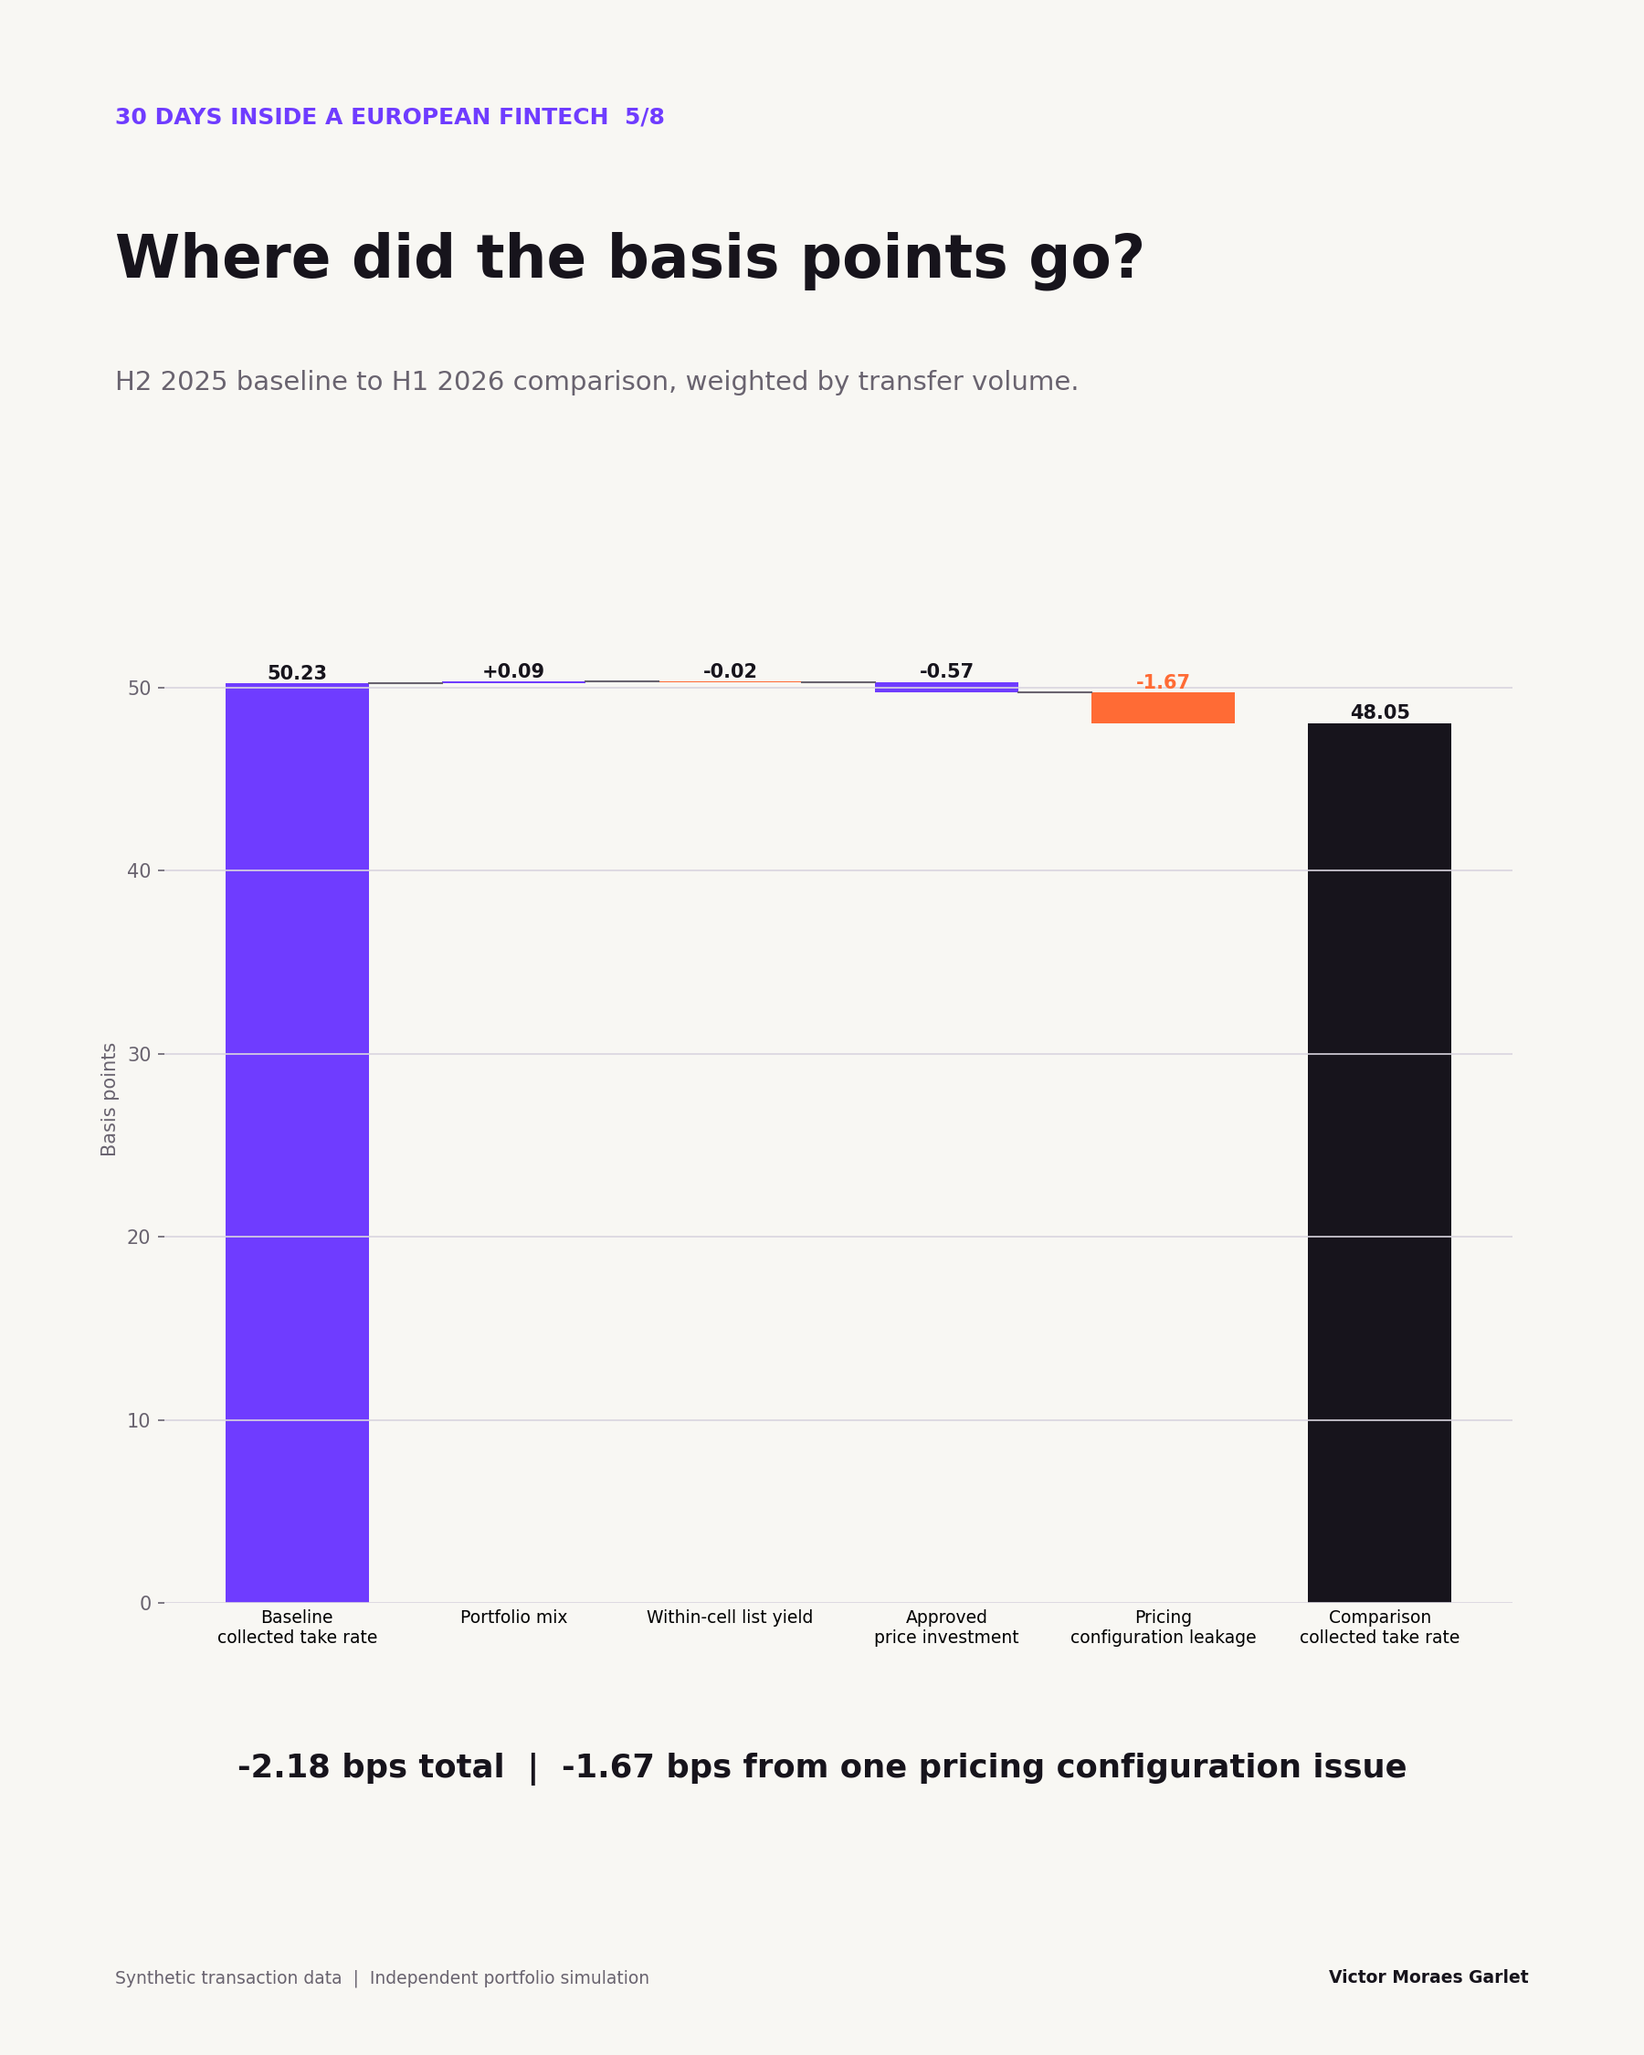
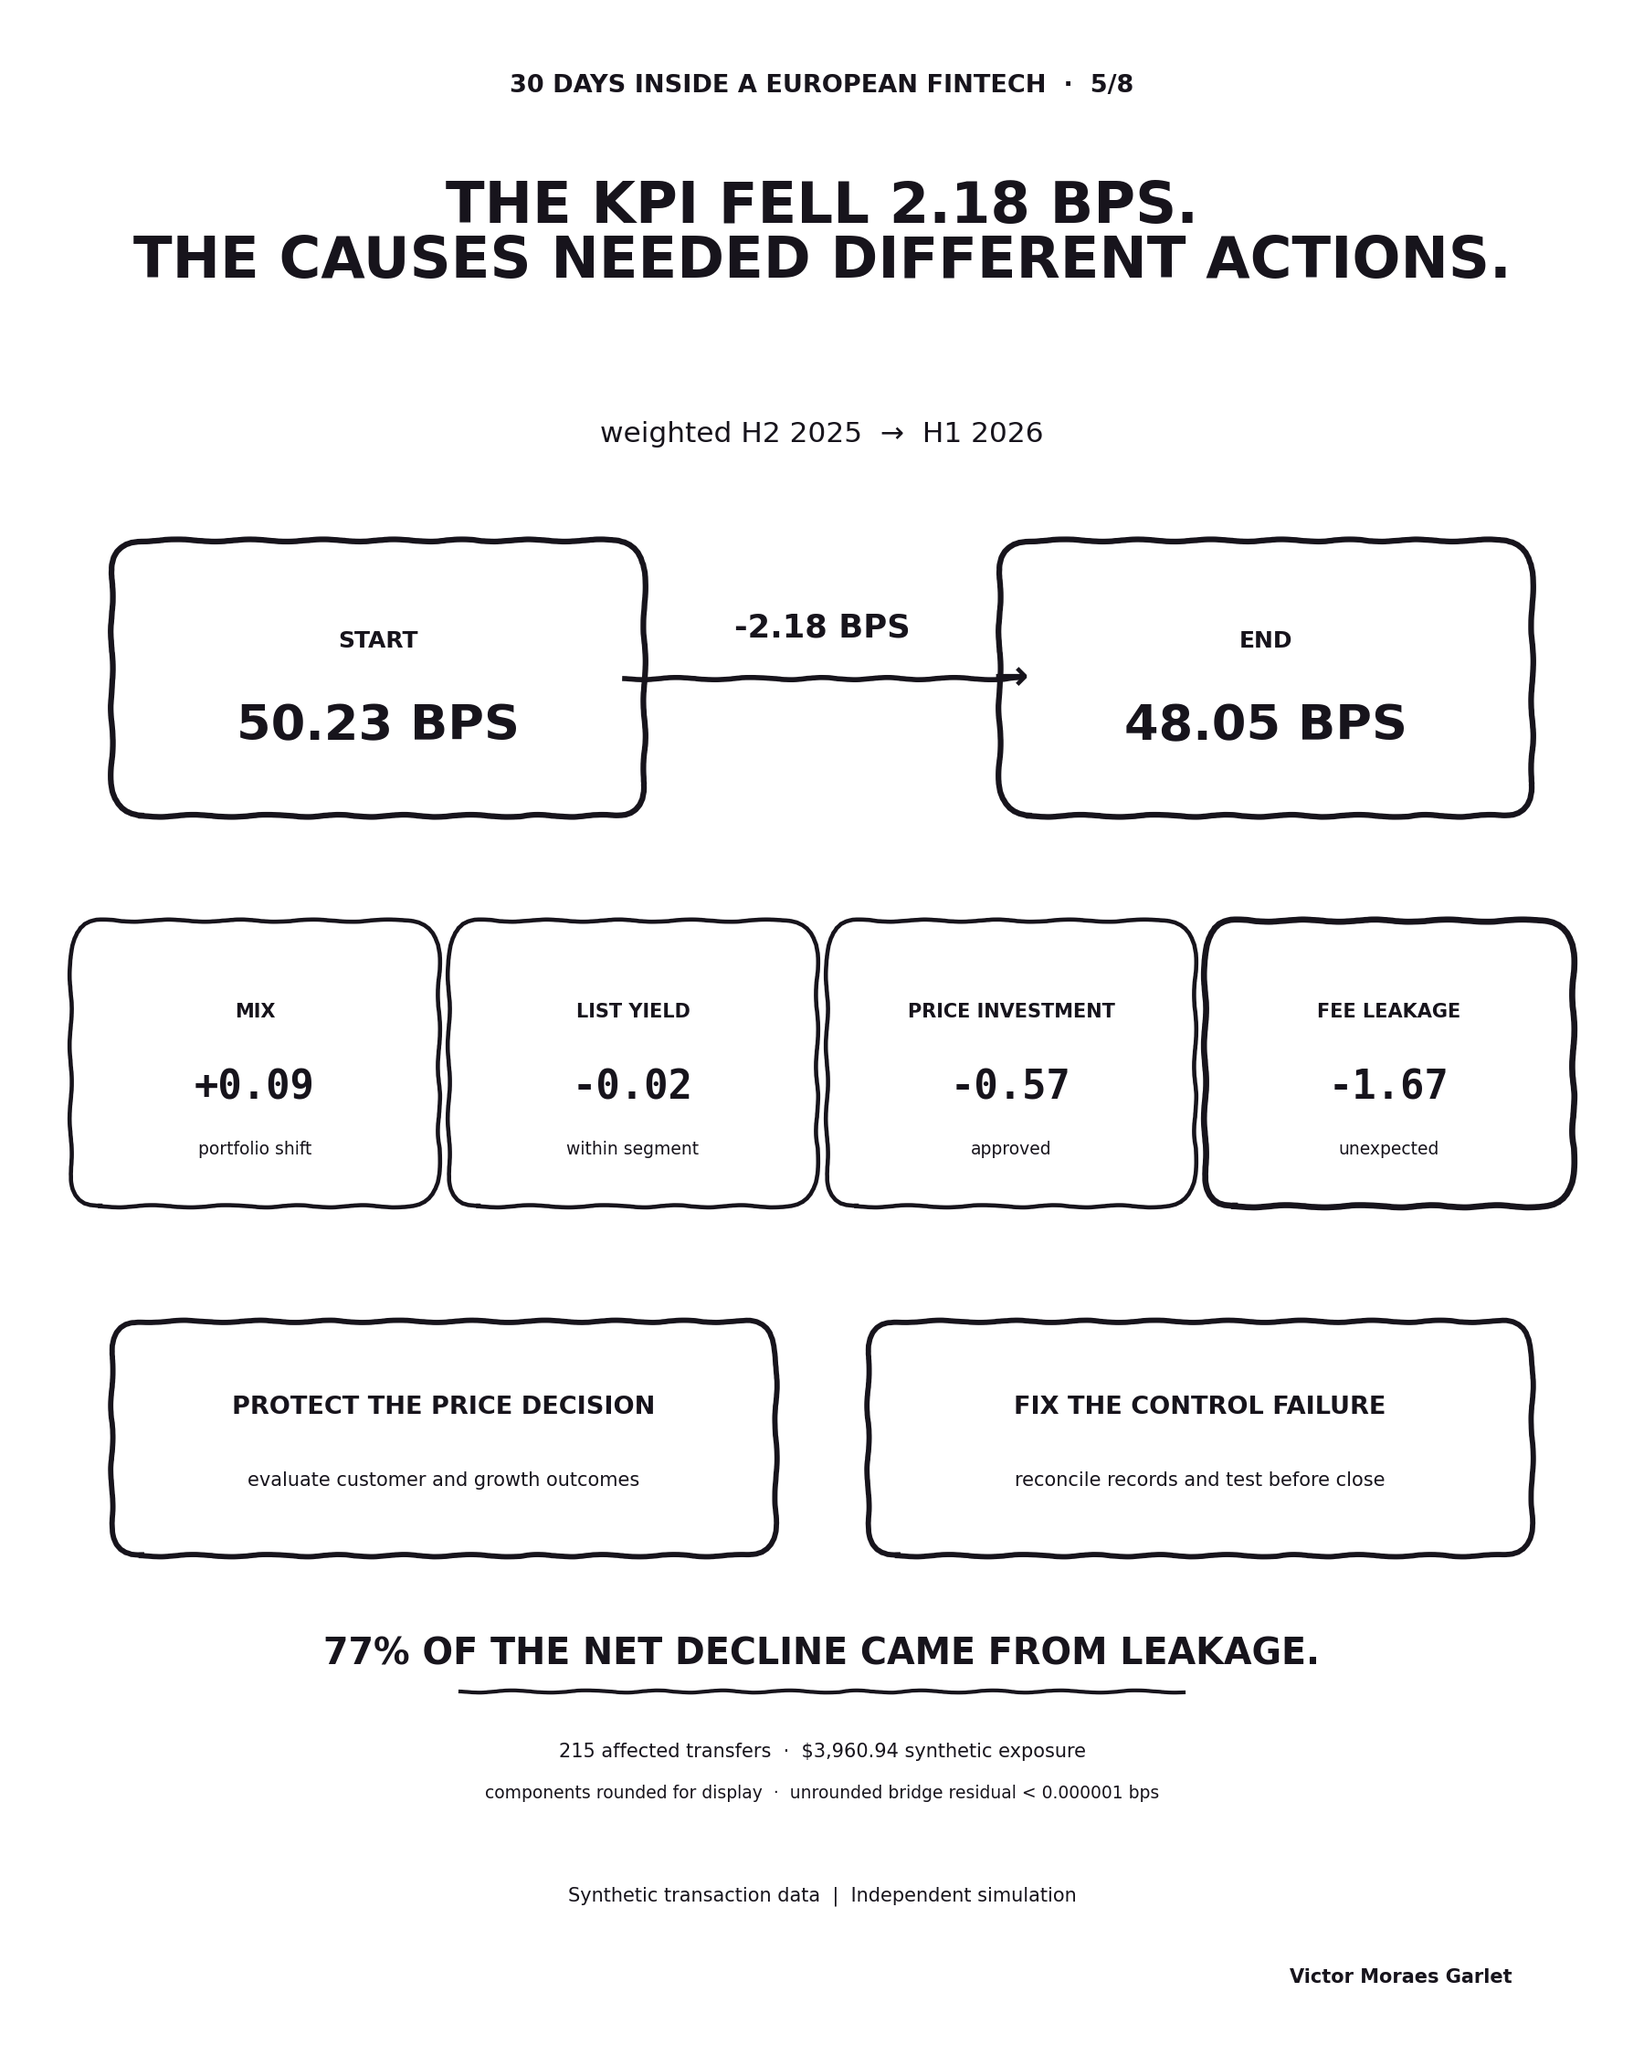
Approve and schedule episode 5

diff --git a/scripts/build_visuals.py b/scripts/build_visuals.py
@@ -377,47 +377,87 @@ def build_episode_05(connection):
         order by component_order
         """
     ).fetchall()
-    fig, _ = base_figure(
-        5,
-        "Where did the basis points go?",
-        "H2 2025 baseline to H1 2026 comparison, weighted by transfer volume.",
+    values = {
+        code: {"label": label, "impact": impact, "running": running, "is_total": is_total}
+        for code, label, impact, running, is_total in rows
+    }
+    affected_transfers, leakage_usd = fetch_one(
+        connection,
+        """
+        select affected_transfers, fee_leakage_usd
+        from marts.mart_fee_leakage_hotspots
+        order by fee_leakage_usd desc
+        limit 1
+        """,
     )
-    ax = fig.add_axes((0.10, 0.22, 0.82, 0.49), facecolor=PAPER)
-    ax.spines[:].set_visible(False)
-    ax.grid(axis="y", color=LINE, linewidth=0.8)
-    ax.tick_params(axis="x", length=0, labelsize=9)
-    ax.tick_params(axis="y", colors=MUTED)
+    total_change = values["comparison"]["impact"] - values["baseline"]["impact"]
+    leakage_share = 100.0 * abs(values["fee_leakage"]["impact"] / total_change)
 
-    x = list(range(len(rows)))
-    bottoms = []
-    heights = []
-    colors = []
-    labels = []
-    prior = 0.0
-    for code, label, impact, running, is_total in rows:
-        labels.append(label.replace(" collected", "\ncollected").replace(" price", "\nprice").replace(" configuration", "\nconfiguration"))
-        if is_total:
-            bottoms.append(0)
-            heights.append(impact)
-            colors.append(INK if code == "comparison" else PURPLE)
-        else:
-            bottoms.append(min(prior, running))
-            heights.append(abs(impact))
-            colors.append(PURPLE if impact >= 0 or code == "approved_price_investment" else ORANGE)
-        prior = running
-    bars = ax.bar(x, heights, bottom=bottoms, color=colors, width=0.66)
-    for i in range(1, len(rows) - 1):
-        previous_running = rows[i - 1][3]
-        ax.plot([i - 0.67, i - 0.33], [previous_running, previous_running], color=MUTED, linewidth=1)
-    for bar, row in zip(bars, rows):
-        code, _, impact, running, is_total = row
-        label = f"{impact:.2f}" if is_total else f"{impact:+.2f}"
-        y = bar.get_y() + bar.get_height() + 0.22
-        ax.text(bar.get_x() + bar.get_width() / 2, y, label, ha="center", fontweight="bold", color=ORANGE if code == "fee_leakage" else INK)
-    ax.set_xticks(x, labels)
-    ax.set_ylabel("Basis points", color=MUTED)
-    ax.set_ylim(0, 55)
-    fig.text(0.50, 0.135, "-2.18 bps total  |  -1.67 bps from one pricing configuration issue", ha="center", color=INK, fontsize=17, fontweight="bold")
+    fig = plt.figure(figsize=(12, 15), facecolor=WHITE)
+    ax = fig.add_axes((0, 0, 1, 1))
+    ax.set_xlim(0, 1)
+    ax.set_ylim(0, 1)
+    ax.axis("off")
+
+    def rough_card(x, y, width, height, linewidth=2.5):
+        patch = FancyBboxPatch(
+            (x, y),
+            width,
+            height,
+            boxstyle="round,pad=0.012,rounding_size=0.018",
+            linewidth=linewidth,
+            edgecolor=INK,
+            facecolor=WHITE,
+        )
+        patch.set_sketch_params(scale=1.2, length=90, randomness=2.5)
+        ax.add_patch(patch)
+
+    def rough_line(xs, ys, linewidth=2.2):
+        line, = ax.plot(xs, ys, color=INK, linewidth=linewidth)
+        line.set_sketch_params(scale=1.2, length=90, randomness=2.5)
+
+    fig.text(0.50, 0.955, "30 DAYS INSIDE A EUROPEAN FINTECH  ·  5/8", ha="center", color=INK, fontsize=13, fontweight="bold")
+    fig.text(0.50, 0.865, "THE KPI FELL 2.18 BPS.\nTHE CAUSES NEEDED DIFFERENT ACTIONS.", ha="center", color=INK, fontsize=30, fontweight="bold", linespacing=1.0)
+    fig.text(0.50, 0.785, "weighted H2 2025  →  H1 2026", ha="center", color=INK, fontsize=15)
+
+    rough_card(0.08, 0.615, 0.30, 0.11, 3.0)
+    ax.text(0.23, 0.685, "START", ha="center", color=INK, fontsize=12, fontweight="bold")
+    ax.text(0.23, 0.64, f"{values['baseline']['impact']:.2f} BPS", ha="center", color=INK, fontsize=26, fontweight="bold")
+
+    rough_line([0.38, 0.62], [0.67, 0.67], 2.7)
+    ax.text(0.50, 0.69, f"{total_change:.2f} BPS", ha="center", color=INK, fontsize=17, fontweight="bold")
+    ax.text(0.615, 0.67, "→", ha="center", va="center", color=INK, fontsize=22, fontweight="bold")
+
+    rough_card(0.62, 0.615, 0.30, 0.11, 3.0)
+    ax.text(0.77, 0.685, "END", ha="center", color=INK, fontsize=12, fontweight="bold")
+    ax.text(0.77, 0.64, f"{values['comparison']['impact']:.2f} BPS", ha="center", color=INK, fontsize=26, fontweight="bold")
+
+    components = [
+        (0.055, "MIX", values["portfolio_mix"]["impact"], "portfolio shift"),
+        (0.285, "LIST YIELD", values["within_cell_yield"]["impact"], "within segment"),
+        (0.515, "PRICE INVESTMENT", values["approved_price_investment"]["impact"], "approved"),
+        (0.745, "FEE LEAKAGE", values["fee_leakage"]["impact"], "unexpected"),
+    ]
+    for x, heading, impact, note in components:
+        rough_card(x, 0.425, 0.20, 0.115, 3.2 if heading == "FEE LEAKAGE" else 2.2)
+        ax.text(x + 0.10, 0.505, heading, ha="center", color=INK, fontsize=10, fontweight="bold")
+        ax.text(x + 0.10, 0.465, f"{impact:+.2f}", ha="center", color=INK, fontsize=21, fontweight="bold", family="monospace")
+        ax.text(x + 0.10, 0.438, note, ha="center", color=INK, fontsize=9)
+
+    rough_card(0.08, 0.255, 0.38, 0.09, 2.8)
+    ax.text(0.27, 0.312, "PROTECT THE PRICE DECISION", ha="center", color=INK, fontsize=13, fontweight="bold")
+    ax.text(0.27, 0.277, "evaluate customer and growth outcomes", ha="center", color=INK, fontsize=10)
+
+    rough_card(0.54, 0.255, 0.38, 0.09, 2.8)
+    ax.text(0.73, 0.312, "FIX THE CONTROL FAILURE", ha="center", color=INK, fontsize=13, fontweight="bold")
+    ax.text(0.73, 0.277, "reconcile records and test before close", ha="center", color=INK, fontsize=10)
+
+    ax.text(0.50, 0.19, f"{leakage_share:.0f}% OF THE NET DECLINE CAME FROM LEAKAGE.", ha="center", color=INK, fontsize=19, fontweight="bold")
+    rough_line([0.28, 0.72], [0.177, 0.177], 2.0)
+    ax.text(0.50, 0.145, f"{affected_transfers} affected transfers  ·  ${leakage_usd:,.2f} synthetic exposure", ha="center", color=INK, fontsize=10)
+    ax.text(0.50, 0.125, "components rounded for display  ·  unrounded bridge residual < 0.000001 bps", ha="center", color=INK, fontsize=9)
+    fig.text(0.50, 0.075, "Synthetic transaction data  |  Independent simulation", ha="center", color=INK, fontsize=10)
+    fig.text(0.92, 0.035, "Victor Moraes Garlet", ha="right", color=INK, fontsize=10, fontweight="bold")
     save(fig, "episode_05_take_rate_waterfall.png")
 
 

diff --git a/tests/test_public_content.py b/tests/test_public_content.py
@@ -37,7 +37,11 @@ class PublicContentTestCase(unittest.TestCase):
 
     def test_editorial_calendar_tracks_release_status(self):
         calendar = (PROJECT_ROOT / "content" / "editorial_calendar.md").read_text(encoding="utf-8")
-        self.assertEqual(calendar.count("Hold for approval"), 4)
+        self.assertEqual(calendar.count("Hold for approval"), 3)
+        self.assertIn(
+            "| 5 | Tue, 13 Oct 2026 | Decompose the take-rate movement | Waterfall | Scheduled for 08:00 Europe/Dublin |",
+            calendar,
+        )
         self.assertIn(
             "| 1 | Tue, 29 Sep 2026 | Frame the take-rate decision | Metric tree | Scheduled for 08:00 Europe/Dublin |",
             calendar,

diff --git a/content/posts/episode_05.md b/content/posts/episode_05.md
@@ -1,43 +1,58 @@
 # Episode 5: Decompose take rate
 
-**Status:** Draft for approval  
+**Status:** Scheduled for Tue, 13 Oct 2026 at 08:00 Europe/Dublin
 **Visual:** `content/visuals/episode_05_take_rate_waterfall.png`
 
 ## Post copy
+
+Only 0.57 of the 2.18 bps take-rate decline came from an approved decision to lower prices.
+
+Another 1.67 bps came from an unexpected pricing configuration issue.
 
 **30 Days Inside a European Fintech [5/8]**
 
 I'm using Wise's public disclosures and synthetic data to simulate how a Senior Data Analyst could work through a fintech problem from question to decision.
 
-The collected take rate fell from 50.23 bps to 48.05 bps.
+After Episode 4's settlement-control hotspot, I returned to the original commercial question.
 
-The 2.18 bps decline was not one commercial event.
+Collected take rate fell from 50.23 bps in H2 2025 to 48.05 bps in H1 2026.
 
-I decomposed the movement between H2 2025 and H1 2026:
+If I stopped at the headline, Pricing could be asked to reverse lower customer prices even though most of the decline came from something else.
 
-• portfolio mix: +0.09 bps  
-• within-segment list yield: -0.02 bps  
-• approved price investment: -0.57 bps  
+The bridge separated four effects:
+
+• portfolio mix: +0.09 bps
+
+• within-segment list yield: -0.02 bps
+
+• approved price investment: -0.57 bps
+
 • pricing configuration leakage: -1.67 bps
 
-The bridge reconciles back to the reported take rate with a residual below 0.000001 bps.
+I compared two six-month windows, weighted by transfer volume, and used a symmetric shift-share decomposition at corridor and customer-segment grain.
 
-The actionable finding was concentrated in one corridor and one business segment. It affected 215 transfers and created $3,960.94 of simulated fee leakage.
+That separates customers moving between segments from pricing changes within the same segment. I then applied approved price investment and the difference between expected and collected fees.
 
-This matters because the approved price investment and the leakage both reduce collected revenue. If the scorecard combines them, a pricing team may be asked to reverse a deliberate customer decision while the control failure continues.
+The displayed components are rounded. Using unrounded values, the bridge closes with a residual below 0.000001 bps.
 
-I would keep three measures visible together:
+The leakage was concentrated in C07 business customers. It affected 215 transfers and created $3,960.94 of simulated fee exposure, equal to 33.3% of the expected fees for that segment in H1.
 
-• list take rate  
-• expected take rate after approved investment  
-• collected take rate after unexpected shortfall
+That leads to two different decisions.
 
-The recommended action is to correct the pricing configuration, identify the affected records and test expected versus collected fee before daily close.
+The approved price investment should remain visible and be evaluated against customer and growth outcomes. The configuration issue needs a control response: correct the rule, reconcile the affected records and compare expected with collected fees before daily close.
 
-The decomposition separated a strategic choice from an avoidable loss and assigned the right action to each.
+I would keep list, expected and collected take rate visible together. A single collected metric cannot show whether revenue moved because of strategy or because a control failed.
 
-Quick glossary  
-*List yield = fee expected from the published pricing rule before approved discounts.  
-*Fee leakage = the unexpected difference between expected and collected fee.
+Before treating the $3,960.94 as recoverable revenue, I would still confirm the pricing terms and whether past charges can be corrected. The analysis quantifies the exposure. It does not decide recoverability.
 
-This is an independent simulation inspired by Wise's public disclosures. I am not affiliated with Wise. All transaction-level data and project findings are synthetic; any company-level figures are sourced from public reports.
+Next, I will test whether faster transfers justify their higher provider cost once support contacts and contribution margin are included.
+
+Quick glossary
+
+*Take-rate bridge = a breakdown of the movements between two take-rate values.
+
+*Portfolio mix = the effect of volume moving between customer segments or corridors with different prices.
+
+*Fee leakage = the unexpected difference between the fee that should have been collected and the fee actually collected.
+
+Disclosure: This is an independent simulation inspired by Wise's public disclosures. I am not affiliated with Wise. All transaction-level data and project findings are synthetic; any company-level figures are sourced from public reports.

diff --git a/content/editorial_calendar.md b/content/editorial_calendar.md
@@ -6,7 +6,7 @@ Publish twice per week, Tuesday and Friday at 08:00 Europe/Dublin.
 
 The technical project can be completed in one sprint. The public story benefits from four weeks because each post has time to circulate, collect discussion and lead naturally into the next decision.
 
-Episodes 1–4 are scheduled. Episodes 5–8 remain on hold for review and approval.
+Episodes 1–5 are scheduled. Episodes 6–8 remain on hold for review and approval.
 
 | Episode | Date | Role in the series | Visual | Status |
 | --- | --- | --- | --- | --- |
@@ -14,7 +14,7 @@ Episodes 1–4 are scheduled. Episodes 5–8 remain on hold for review and appro
 | 2 | Fri, 2 Oct 2026 | Establish the evidence boundary | Evidence layers | Scheduled for 08:00 Europe/Dublin |
 | 3 | Tue, 6 Oct 2026 | Reconcile Finance and Operations clocks | Reporting bridge | Scheduled for 08:00 Europe/Dublin |
 | 4 | Fri, 9 Oct 2026 | Isolate the settlement hotspot | Exception-rate comparison | Scheduled for 08:00 Europe/Dublin |
-| 5 | Tue, 13 Oct 2026 | Decompose the take-rate movement | Waterfall | Hold for approval |
+| 5 | Tue, 13 Oct 2026 | Decompose the take-rate movement | Waterfall | Scheduled for 08:00 Europe/Dublin |
 | 6 | Fri, 16 Oct 2026 | Evaluate speed, cost and support | Trade-off chart | Hold for approval |
 | 7 | Tue, 20 Oct 2026 | Convert findings into actions and a test | Decision matrix | Hold for approval |
 | 8 | Fri, 23 Oct 2026 | Present the final leadership recommendation | Executive decision page | Hold for approval |
